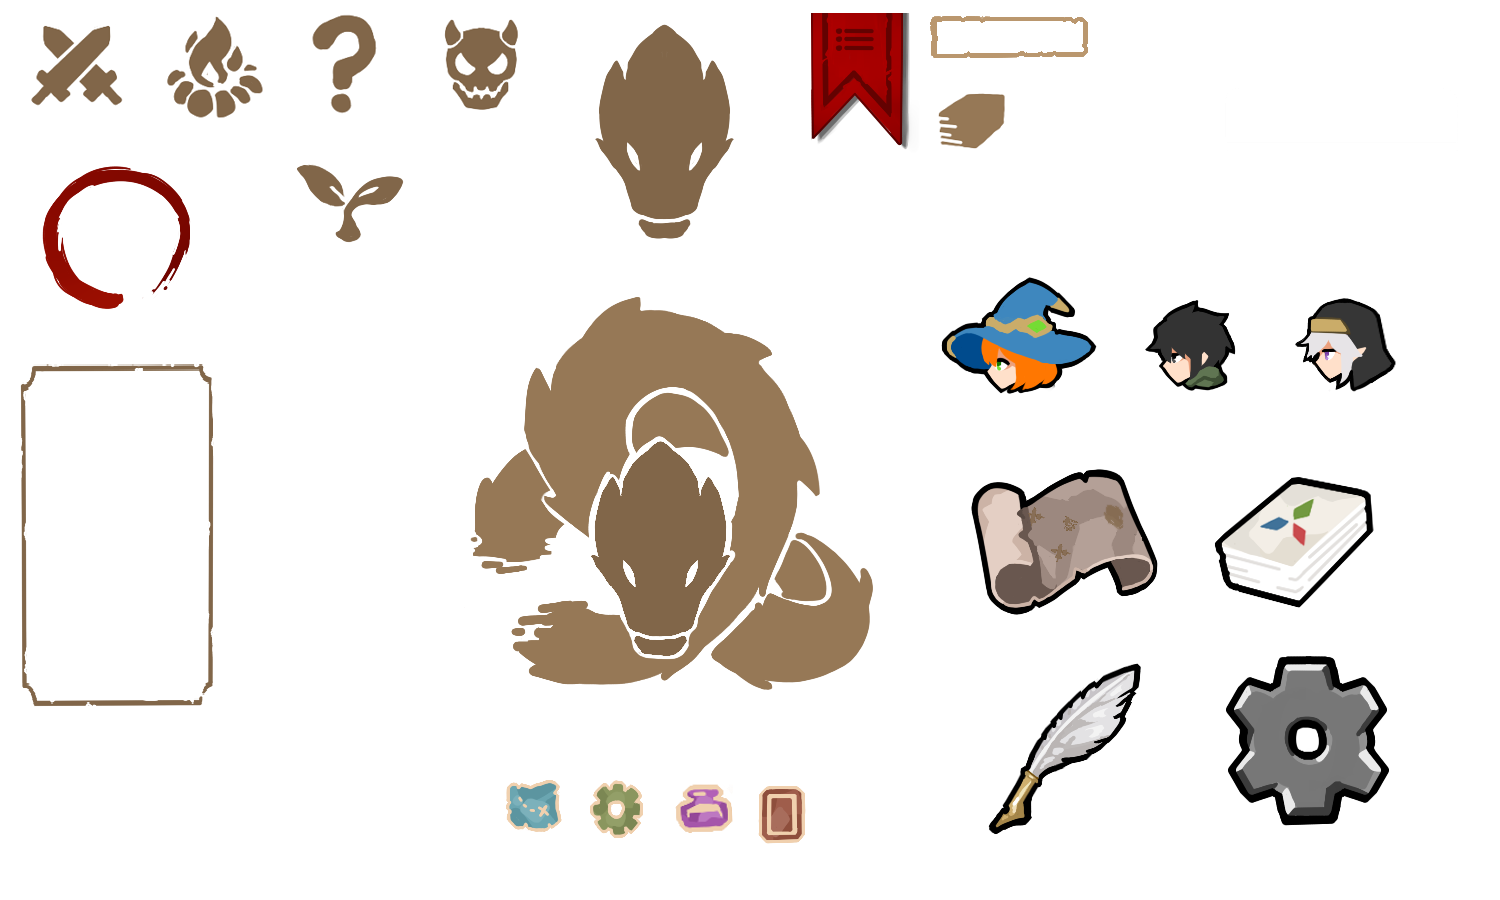
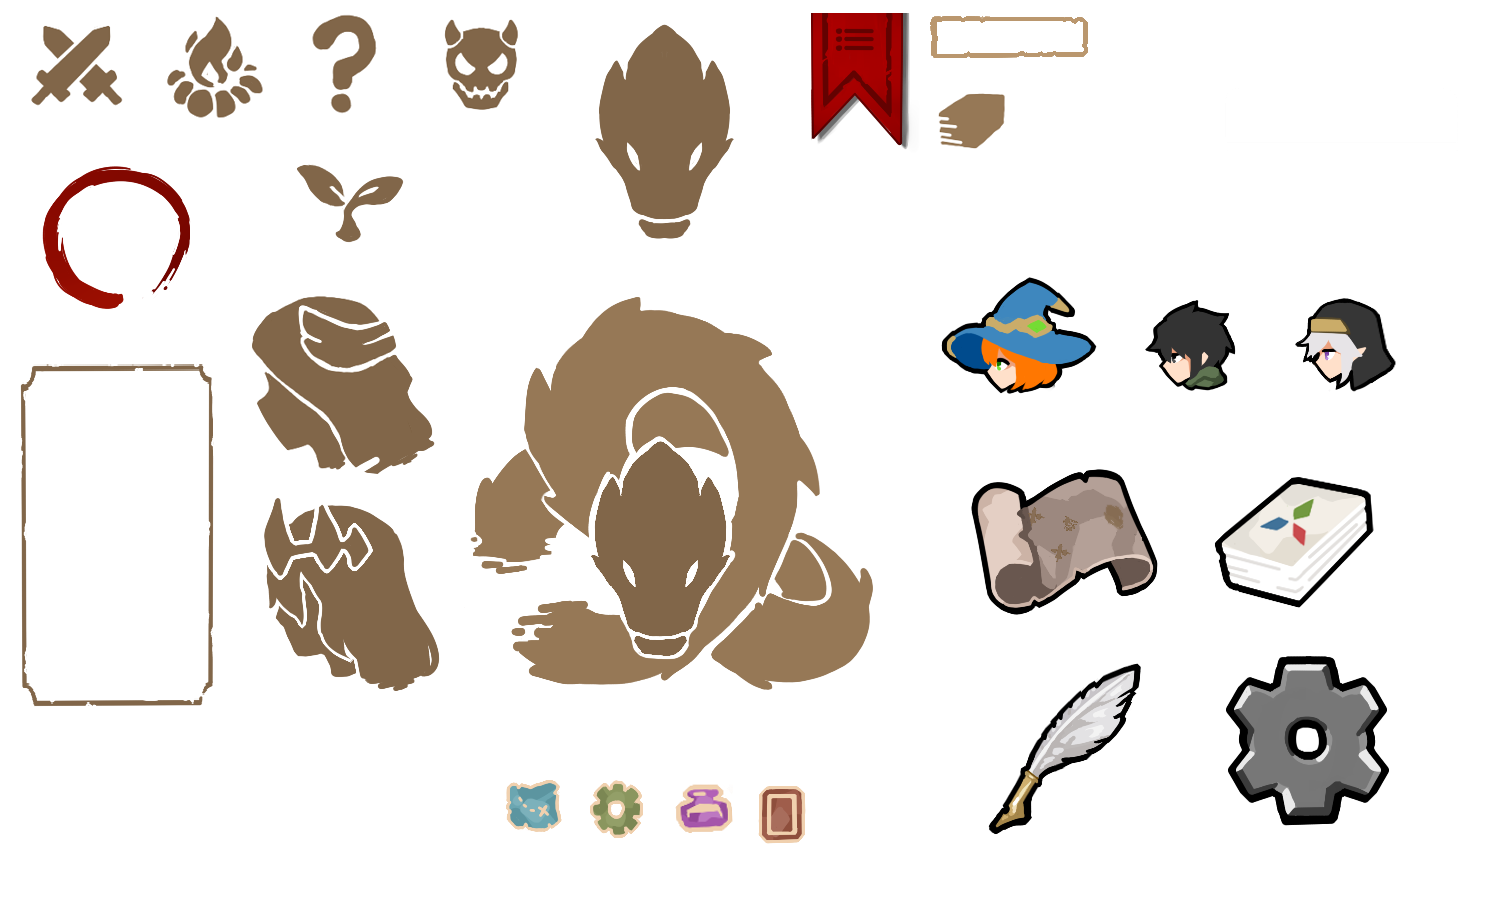
[Feat] Default unlock card temporary added.
- 디폴트 해금 카드들을, 임시로 추가(랜덤 이벤트 해금 카드들).
>>> 해당 카드들은 이후 정식 출시 시점에서는 롤백 예정

Changed region(s): [[0.1533, 0.56, 0.3067, 0.7778], [0.1533, 0.3111, 0.3067, 0.5289]]

diff --git a/Assets/01_Scripts/Manager/DataManagement/ProgressDataManager.cs b/Assets/01_Scripts/Manager/DataManagement/ProgressDataManager.cs
@@ -9,6 +9,16 @@ public partial class ProgressDataManager : MonoSingleton<ProgressDataManager>
 {
     public const int MAX_ITEM_COUNT = 4;       //현재 전리품의 최종 개수
 
+    /// <summary>
+    /// 기본 해금 카드 덱 (DataManager와 동기화 유지)
+    /// </summary>
+    private static readonly HashSet<int> DefaultUnlockedCards = new() 
+    { 
+        1000, 1003, 1004, 1005, 1006, 1007, 1009, 1010, 
+        2000, 2001, 2002, 2003, 2004, 2005, 2006, 2008, 2009, 
+        3000, 3001, 3004, 3006, 3009, 3011 
+    };
+
     [Header("기본 플레이어 파티 데이터")]
     [SerializeField] private PlayerPartySO defaultPlayerParty;
     [SerializeField]public List<PlayerData> PlayerDatas { get; private set; } = new();  //게임에 적용할 플레이어 데이터들.
@@ -559,7 +569,21 @@ public partial class ProgressDataManager : MonoSingleton<ProgressDataManager>
 
         EventEffectManager.Instance.LoadEventEffectsData(untillNextCombat, untillNextStage, untillEndAdventure);
 
-        unlockedCards = data.unlockedCardIndexes.ToHashSet();
+        // 저장된 해금 카드 로드 + 존재하지 않는 카드 필터링
+        var loadedUnlockedCards = data.unlockedCardIndexes.ToHashSet();
+        
+        // DataManager에 실제로 존재하는 카드만 유효한 것으로 판단
+        var validCardIndices = new HashSet<int>(DataManager.Instance.AllCards.Select(c => c.index));
+        
+        // 존재하지 않는 카드는 unlockedCards에서 제거 (저장 데이터는 유지)
+        var invalidCards = loadedUnlockedCards.Where(c => !validCardIndices.Contains(c)).ToList();
+        if (invalidCards.Count > 0)
+        {
+            Debug.LogWarning($"[ProgressDataManager] DB에 없는 카드의 해금 상태 해제: {string.Join(", ", invalidCards)}");
+            loadedUnlockedCards.RemoveWhere(c => !validCardIndices.Contains(c));
+        }
+        
+        unlockedCards = loadedUnlockedCards;
 
         for (int i = 0; i < Mathf.Min(itemCounts.Length, data.itemCounts.Length); i++)
             itemCounts[i] = data.itemCounts[i];

diff --git a/Assets/01_Scripts/Manager/DataManagement/DataManager.cs b/Assets/01_Scripts/Manager/DataManagement/DataManager.cs
@@ -62,8 +62,10 @@ public class DataManager : MonoSingleton<DataManager>
     /// <summary>
     /// 기본 해금 카드 덱
     /// </summary>
-    private static readonly HashSet<int> DefaultUnlockedCards = new() { 1000, 1004, 1009, 2000, 2001, 2002, 3000, 3001, 3004 };
-
+    //private static readonly HashSet<int> DefaultUnlockedCards = new() { 1000, 1004, 1009, 2000, 2001, 2002, 3000, 3001, 3004 };
+    // 활용 가능한 카드들이 너무 부족하기에, 랜덤 이벤트로 해금 가능한 카드들을 일시적으로 전부 해금하여 사용 가능한 상태로 제공하고, 추후 정식 출시 단계에서 롤백.
+    private static readonly HashSet<int> DefaultUnlockedCards
+    = new() { 1000, 1003, 1004, 1005, 1006, 1007, 1009, 1010, 2000, 2001, 2002, 2003, 2004, 2005, 2006, 2008, 2009, 3000, 3001, 3004, 3006, 3009, 3011 };
     protected override void Awake()
     {
         base.Awake();
